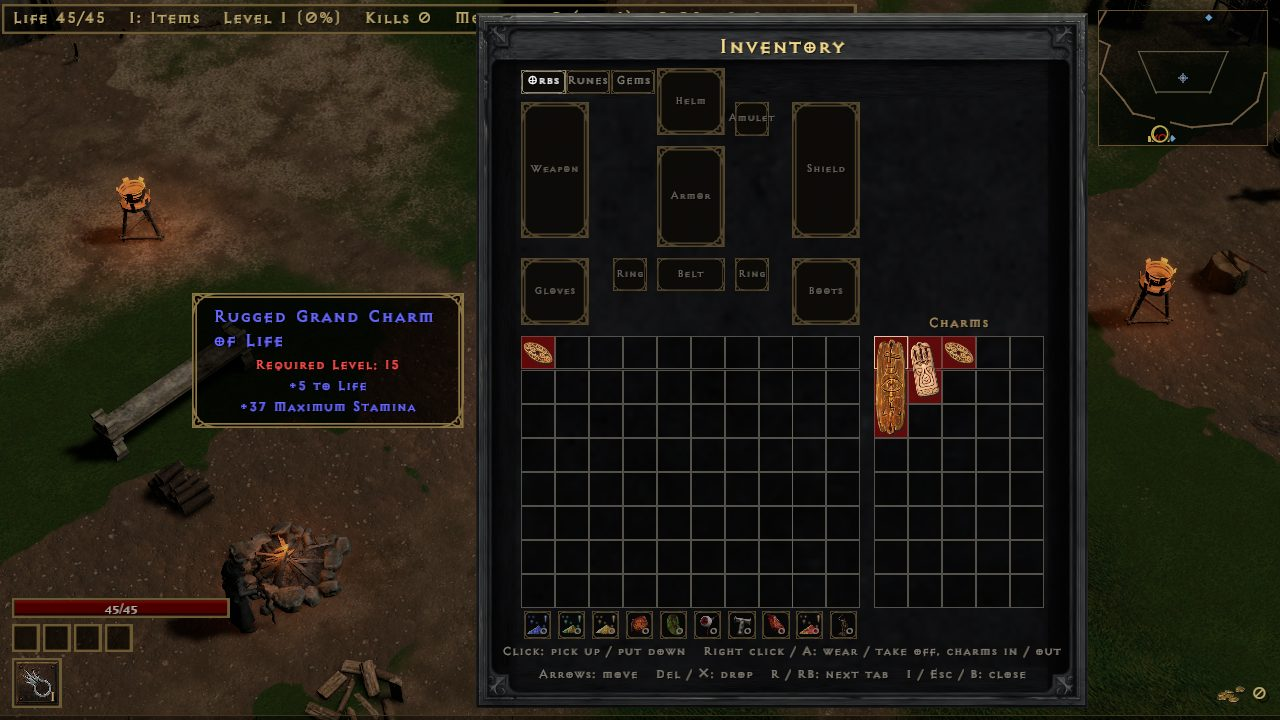
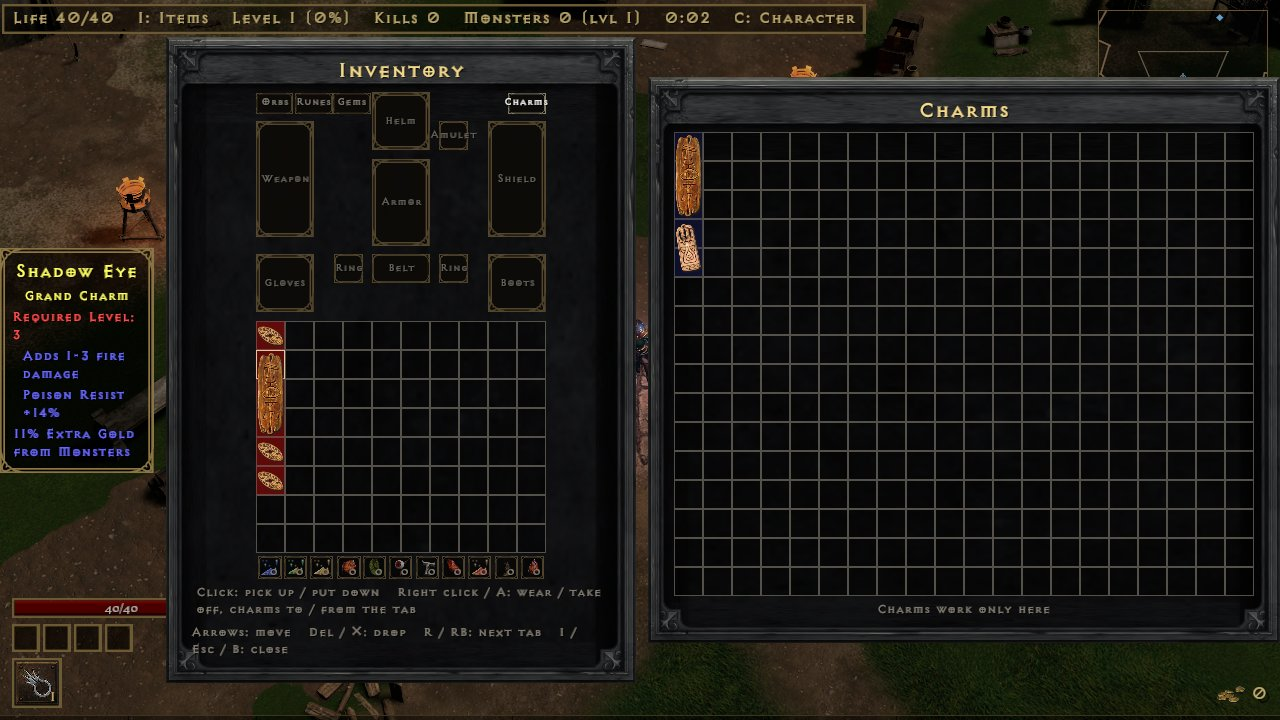
wiki: Charms tab (big grid), rare and corrupted charms, pickup reasons
Claude-Session: https://claude.ai/code/session_01Gh9z25tKgrbMMofhVprveu

diff --git a/wiki/campaign.html b/wiki/campaign.html
@@ -98,15 +98,18 @@ the act's boss waits at the end. The numbers on this page are the game's own.</p
 <ul class="plain">
 <li><kbd>I</kbd> (pad X) opens a 10x8 inventory with a paperdoll. Enter or a click wears, takes or puts an item; Delete drops the item under the cursor.</li>
 <li>What you wear shows on your 3D model, and tooltips compare an item with the one you have on.</li>
-<li><b>Charms</b> have their own 5x8 grid beside the bag. Only charms there add their stats; charms in the bag do nothing. Your level must meet the charm's, and you can have one of each unique charm in it.</li>
-<li>Drag charms between the bag, stash and grid, or right click (pad A) to move one in or out. Orbs work on charms in the grid.</li>
+<li><b>Charms</b> have their own tab beside Orbs, Runes and Gems: a big 20x16 grid as tall as the inventory screen. Only charms in the Charms tab add their stats; charms in the bag or the stash do nothing. Your level must meet the charm's, and only one of each unique charm works (Annihilus, a Torch, Gheed's Fortune). Rare charms have no such limit.</li>
+<li>A charm you pick up goes straight into the Charms tab when it fits. If it can't, it goes in the bag and a line says why: <i>No room</i>, <i>Needs level 30</i>, <i>Already using Annihilus</i>.</li>
+<li>Click a charm to pick it up, then click to put it in the tab or the bag. Clicking with an item in hand on another item it can't go over picks that one up instead. Right click (pad A) moves a charm between the bag and the tab, and opens the tab. Orbs work on charms in the tab.</li>
+<li>Charms from an older save go in the tab's top left. Ones that overlap, sit off the grid or repeat a unique are moved to a free cell or the bag, so nothing is lost or stuck.</li>
+<li><b>Rare charms</b>: about one magic small, large or grand charm in twelve drops rare instead (more with magic find). It has 3 or 4 mods, never two of one kind, and a yellow name.</li>
 <li>The shared stash is 10x10, for all your characters of the same kind (softcore or hardcore).</li>
 <li>Potions you pick up fill the belt (its rows depend on the belt you wear). Drink with <kbd>1</kbd>-<kbd>4</kbd> or pad B.</li>
-<li>Runes and gems stack in their own tabs under the bag (<kbd>R</kbd> or pad RB goes round the orbs, runes and gems).</li>
+<li>Runes and gems stack in their own tabs under the bag (<kbd>R</kbd> or pad RB goes round the orbs, runes, gems and charms).</li>
 <li><b>Rune upgrades</b>, without a Horadric Cube: on the Runes tab, point at a rune and press <kbd>U</kbd> (pad Y, or the Up button). It follows D2R's cube recipe: 3 of El to Ort make the next rune; Thul to Lem take 3 and a gem; Pul and up take 2 and a gem. The gem comes from the Gems tab, and the tooltip names it. <kbd>J</kbd> (pad LB, or the Down button) breaks one rune into 2 of the rune below.</li>
 </ul>
-<figure class="frame clip"><img src="../img/camp-charms.jpg" alt="The inventory with its charm grid and a charm tooltip" loading="lazy" decoding="async">
-  <figcaption><b>Charm grid</b>Beside the bag; a charm above your level shows its requirement in red.</figcaption></figure>
+<figure class="frame clip"><img src="../img/camp-charms.jpg" alt="The inventory's Charms tab: a big charm grid beside the bag, and a charm tooltip" loading="lazy" decoding="async">
+  <figcaption><b>Charms tab</b>A big grid of its own beside the bag; a charm above your level shows its requirement in red.</figcaption></figure>
 
 <h2 id="points">Stats, skills and casting</h2>
 <ul class="plain">
@@ -168,7 +171,7 @@ the act's boss waits at the end. The numbers on this page are the game's own.</p
 </tbody></table></div>
 
 <h3 id="redmods">Red mods</h3>
-<p>A Hellforge Ember adds one red mod to a weapon, armor or jewelry, or a new one in place of the one it has. An Abyssal Shard adds a second one of another kind. Red mods show in red under the item's other stats; a Corrupted item ends in a red <b>Corrupted</b> line. The Abyssal Shard drops from kills and chests like the other orbs, in every act and difficulty, about half as often as the Ember.</p>
+<p>A Hellforge Ember adds one red mod to a weapon, armor, jewelry or a charm, or a new one in place of the one it has. A charm's red mods are its own: +1 to all skills, 5-10% faster cast rate, 5-10% faster run/walk, 8-15% magic find, +15-30 life or 15-30% extra gold. A corrupted charm still works in the Charms tab; rare charms can be corrupted too. An Abyssal Shard adds a second one of another kind. Red mods show in red under the item's other stats; a Corrupted item ends in a red <b>Corrupted</b> line. The Abyssal Shard drops from kills and chests like the other orbs, in every act and difficulty, about half as often as the Ember.</p>
 <div class="tw"><table><thead><tr><th>Red mod</th><th>Range</th><th>Goes on</th></tr></thead><tbody>
 <tr><td class="nw">+1 projectile</td><td>+1, rarely +2 (one time in 8)</td><td>Bows, crossbows, throwing weapons, staves, wands and orbs</td></tr>
 <tr><td class="nw">Chance to cast on a critical strike</td><td>20-40%</td><td>Weapons</td></tr>
